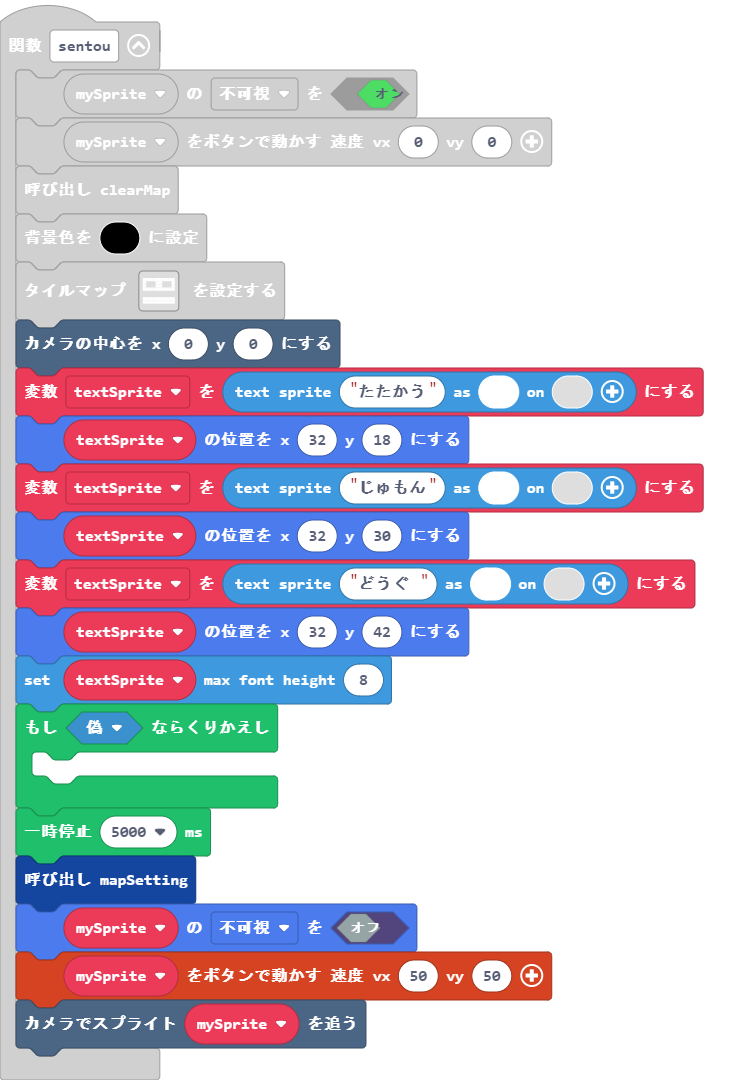
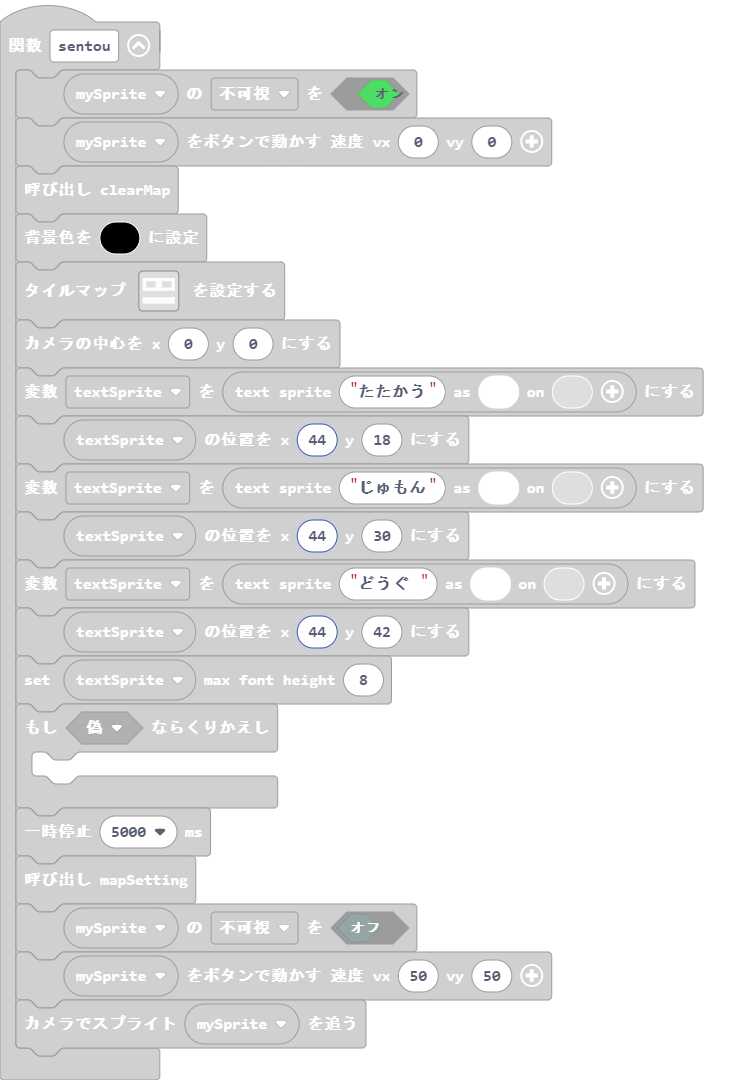
更新 main.blocks, main.ts

diff --git a/main.ts b/main.ts
@@ -371,11 +371,11 @@ function sentou () {
     tiles.setTilemap(tilemap`レベル3`)
     scene.centerCameraAt(0, 0)
     textSprite = textsprite.create("たたかう")
-    textSprite.setPosition(32, 18)
+    textSprite.setPosition(44, 18)
     textSprite = textsprite.create("じゅもん")
-    textSprite.setPosition(32, 30)
+    textSprite.setPosition(44, 30)
     textSprite = textsprite.create("どうぐ　")
-    textSprite.setPosition(32, 42)
+    textSprite.setPosition(44, 42)
     textSprite.setMaxFontHeight(8)
     while (false) {
     	
